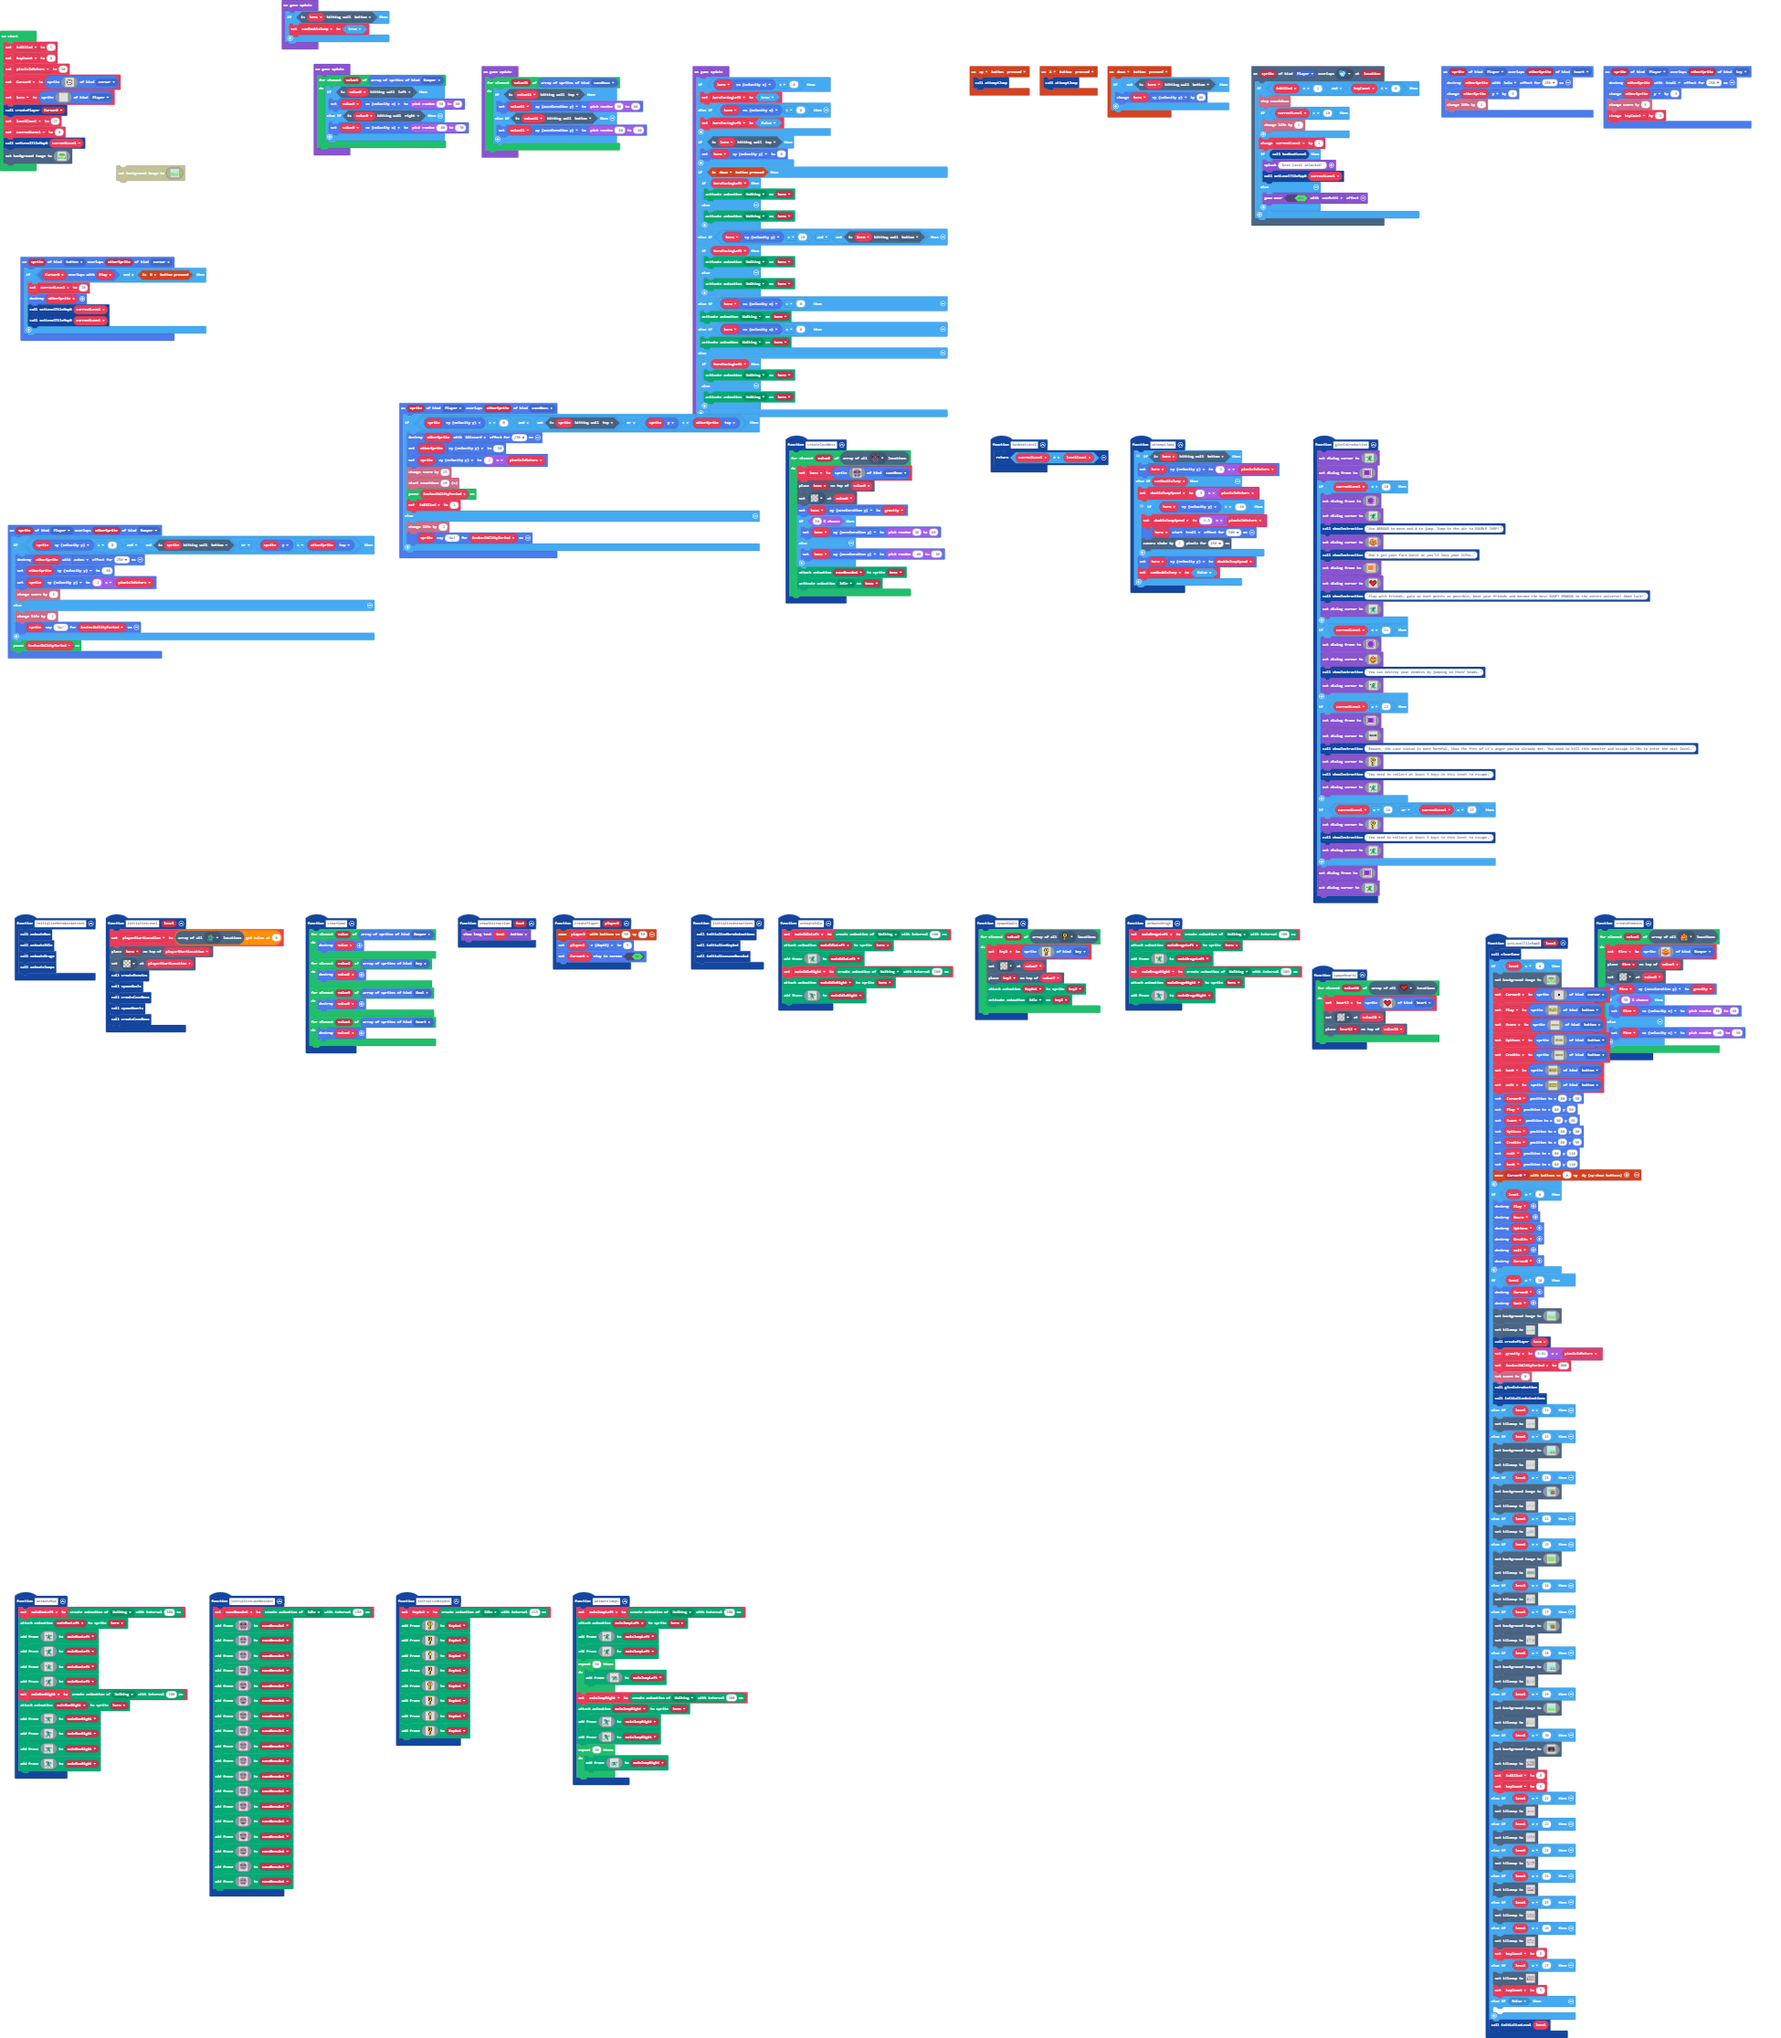
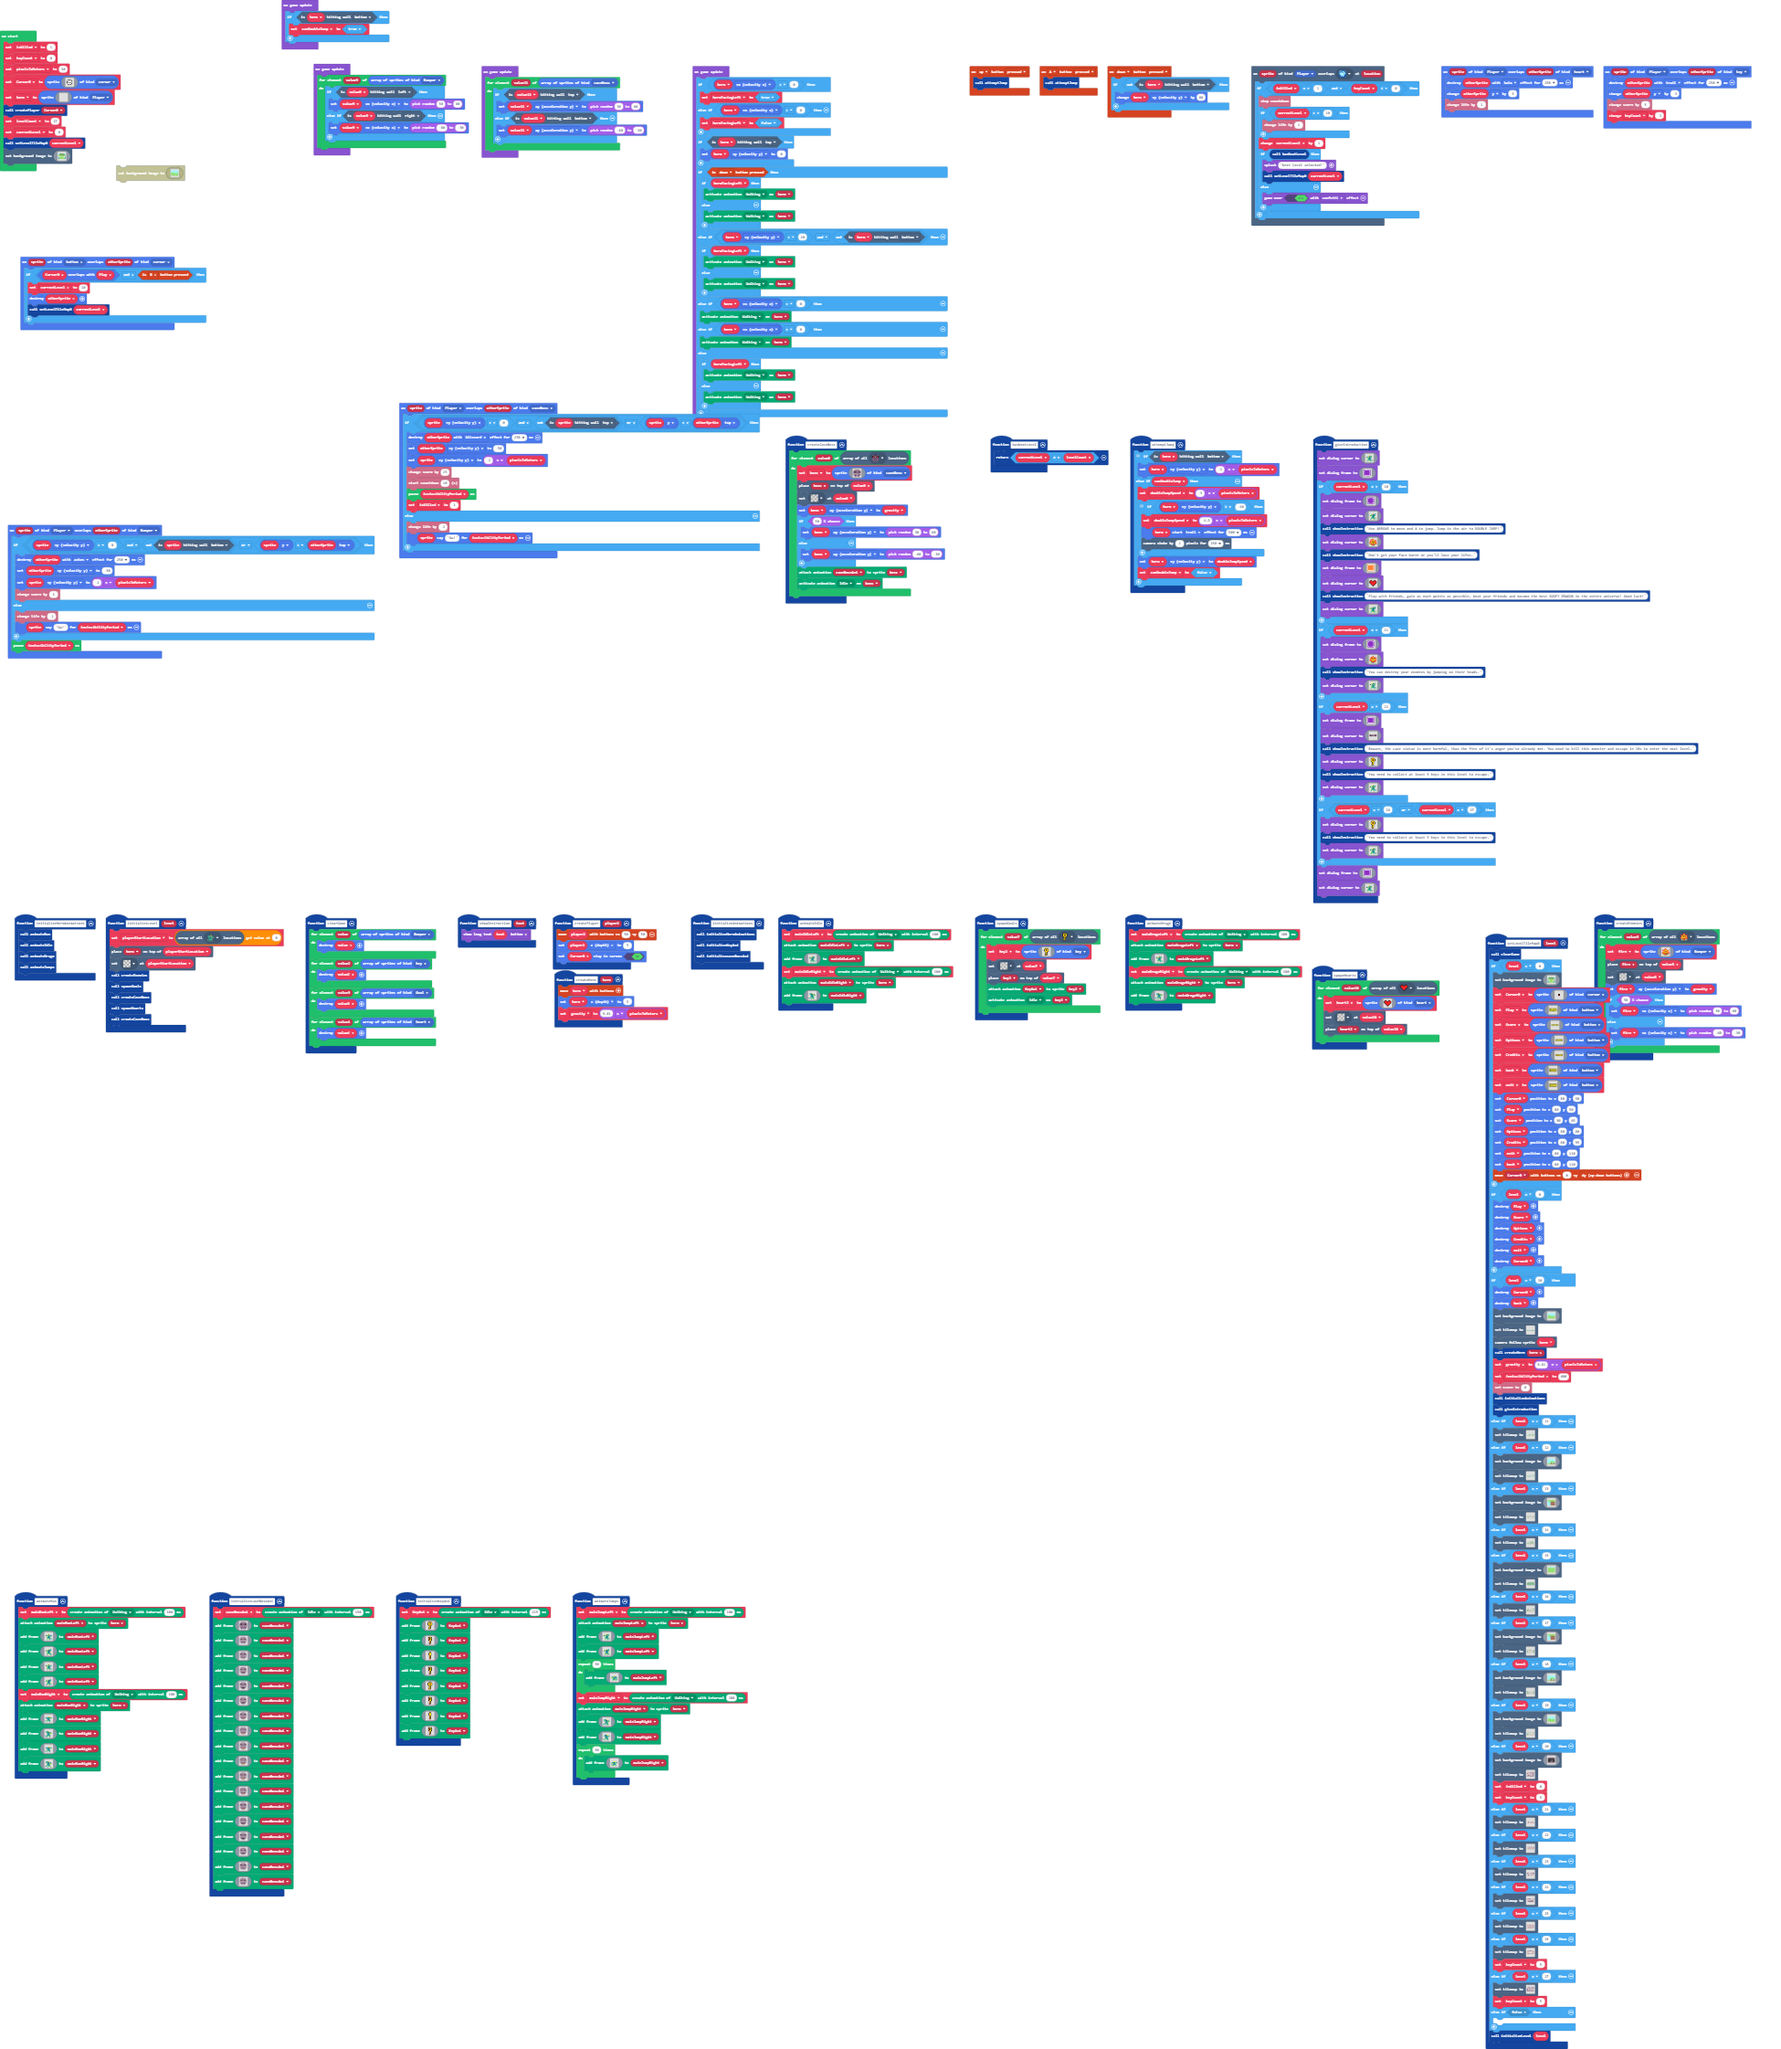
Update main.blocks, main.ts

diff --git a/main.ts b/main.ts
@@ -1008,12 +1008,13 @@ function setLevelTileMap0 (level: number) {
             7777777777777777777777799999997777777777777777777777777777777777777777777777777777777777777777777777777777777777777777777777777777777777777777777777777777777777
             `)
         tiles.setTilemap(tilemap`level_1`)
-        createPlayer(hero)
+        scene.cameraFollowSprite(hero)
+        createHero(hero)
         gravity = 9.81 * pixelsToMeters
         invincibilityPeriod = 600
         info.setScore(0)
-        giveIntroduction()
         initializeAnimations()
+        giveIntroduction()
     } else if (level == 11) {
         tiles.setTilemap(tilemap`level2`)
     } else if (level == 12) {
@@ -2294,6 +2295,11 @@ controller.down.onEvent(ControllerButtonEvent.Pressed, function () {
         hero.vy += 80
     }
 })
+function createHero (hero: Sprite) {
+    controller.moveSprite(hero)
+    hero.z = 5
+    gravity = 9.81 * pixelsToMeters
+}
 function spawnHearts () {
     for (let value10 of tiles.getTilesByType(assets.tile`myTile3`)) {
         heart2 = sprites.create(img`
@@ -2325,7 +2331,6 @@ sprites.onOverlap(SpriteKind.button, SpriteKind.cursor, function (sprite, otherS
     if (Cursor0.overlapsWith(Play) && controller.B.isPressed()) {
         currentLevel = 10
         otherSprite.destroy()
-        setLevelTileMap0(currentLevel)
         setLevelTileMap0(currentLevel)
     }
 })
